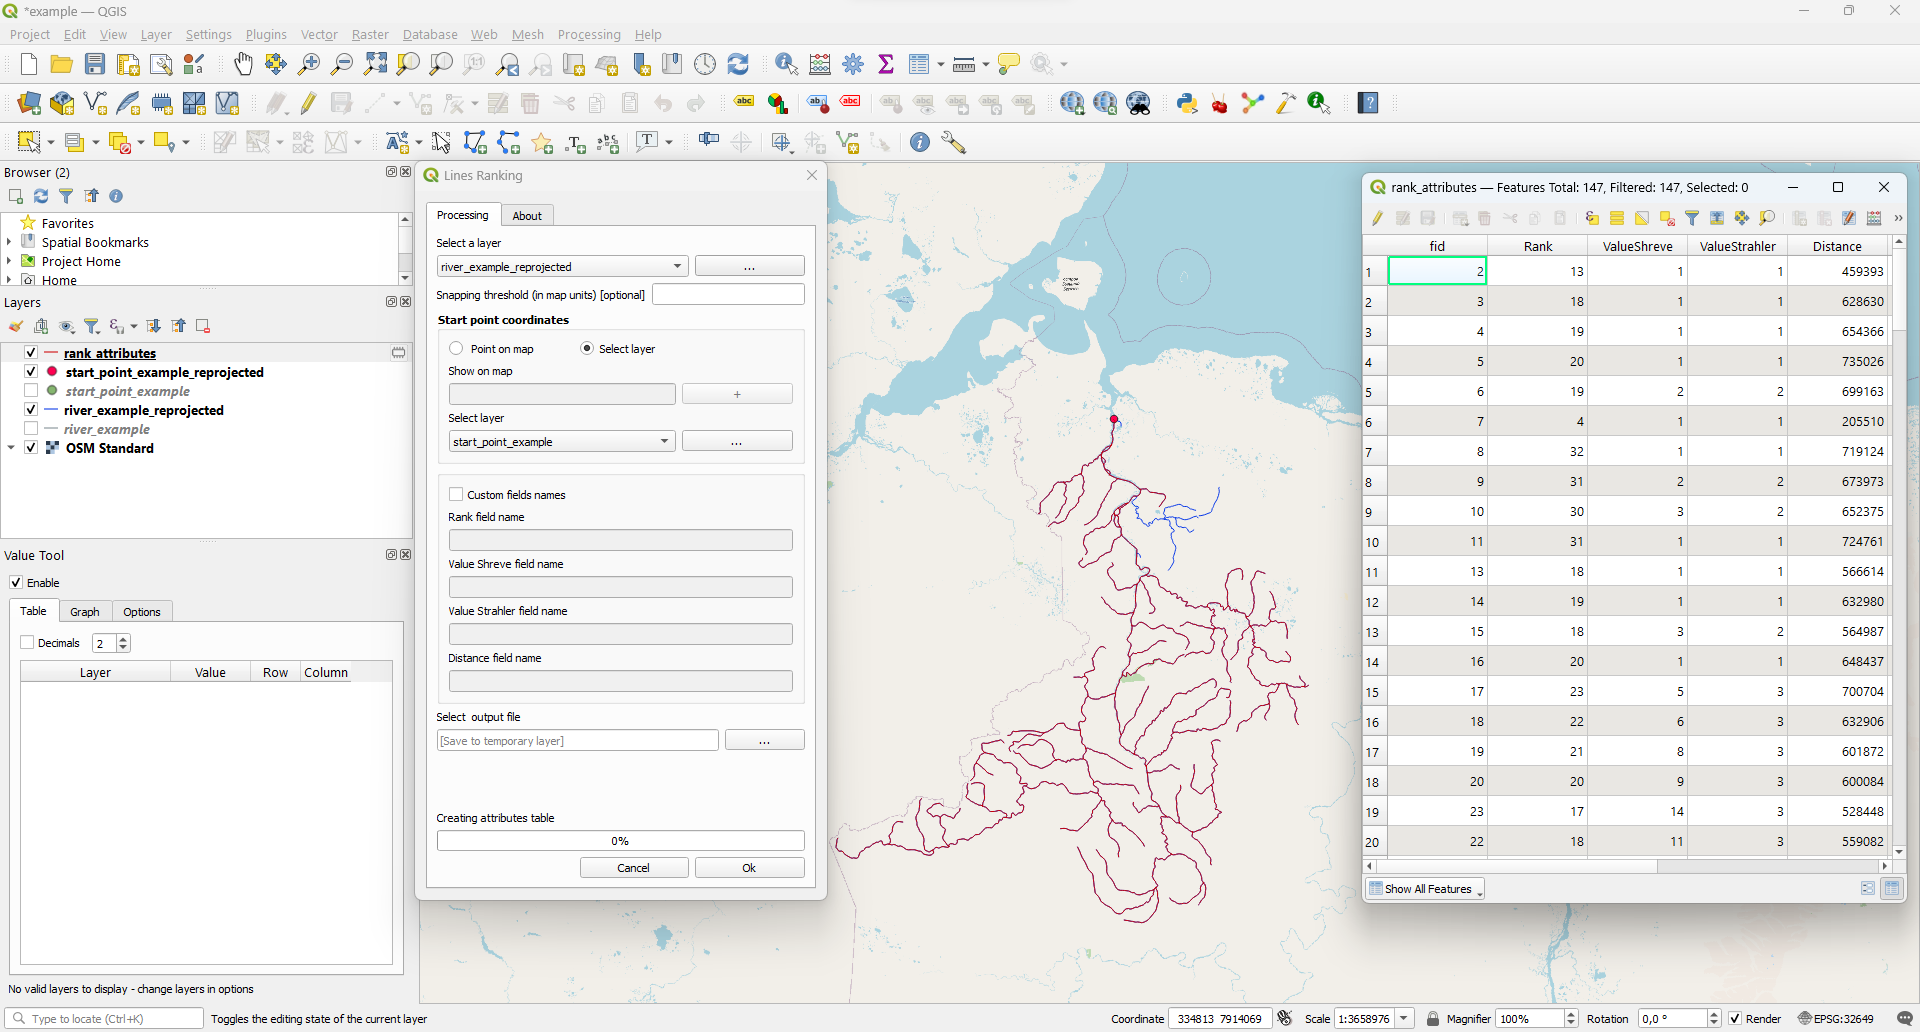
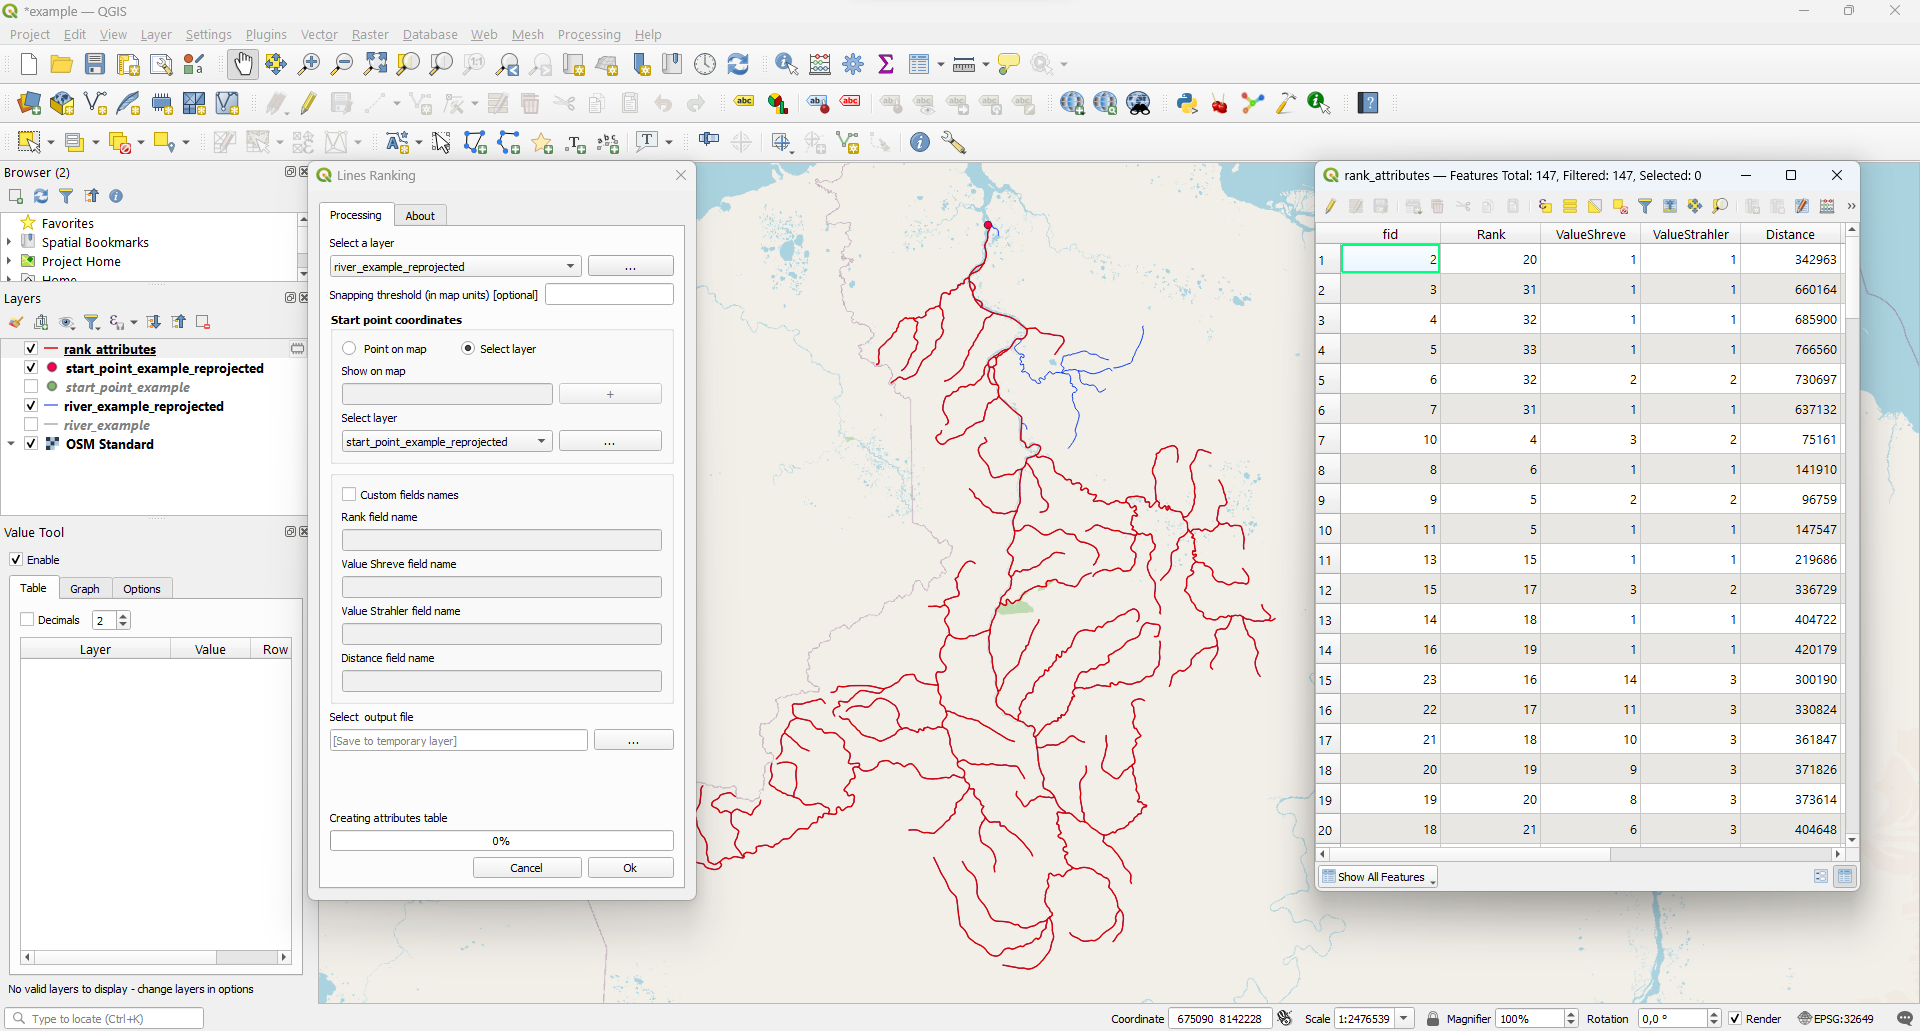
update documentation

Changed region(s): [[0.0, 0.1552, 1.0, 1.0], [0.3125, 0.9311, 0.3438, 0.9932], [0.5312, 0.9001, 0.5625, 0.9311]]

diff --git a/docs/usage/functionality_review.md b/docs/usage/functionality_review.md
@@ -4,6 +4,11 @@ So, we have already installed the plugin in QGIS.
 It's the time to look at its functionality. 
 In this document, we'll take a step-by-step look at how it can be used. 
 
+## Important tip!
+
+Before starting to use the algorithm, please make sure that the project uses metric projection. 
+Also the layers used in the calculation (both linear and point layers) should be converted to this projection.
+
 ## Data 
 
 In the [repository with source code](https://github.com/ChrisLisbon/QGIS_LinesRankingPlugin)
@@ -30,7 +35,8 @@ where the river flows into the ocean. Then the following results obtained:
 ## Usage example (Select layer) 
 
 You can also use a one-point vector layer to assign the starting point run the algorithm.
-We can use `start_point_example`. Re-project the layer: `Processing` - `Toolbox` - `Reproject layer` - assign "WGS 84 / UTM zone 49N".
+We can use `start_point_example`. Re-project this point layer: `Processing` - `Toolbox` - 
+`Reproject layer` - assign "WGS 84 / UTM zone 49N". Save result into file `start_point_example_reprojected`.
 
 <img src="https://raw.githubusercontent.com/ChrisLisbon/QGIS_LinesRankingPlugin/master/images/start_point_layer.png" width="750"/>
 
@@ -76,7 +82,7 @@ To better understand what values have been assigned to this layer, we suggest pr
 
 **Shreve order** 
 
-`rank_attributes_th_25` - `Properties` - `Symbology` - `Graduated`. Then choose `ValueShreve` field for Value
+`rank_attributes` - `Properties` - `Symbology` - `Graduated`. Then choose `ValueShreve` field for Value
 and 'Size' for Method and click Classify: 
 
 <img src="https://raw.githubusercontent.com/ChrisLisbon/QGIS_LinesRankingPlugin/master/images/result_shreve.png" width="750"/>
@@ -87,7 +93,7 @@ Thus, using the Value attribute you can show the total number of tributaries.
 
 **Strahler order** 
 
-`rank_attributes_th_25` - `Properties` - `Symbology` - `Graduated`. Then choose 'ValueStrahler' field for Value
+`rank_attributes` - `Properties` - `Symbology` - `Graduated`. Then choose 'ValueStrahler' field for Value
 and 'Color' for Method and click Classify: 
 
 <img src="https://raw.githubusercontent.com/ChrisLisbon/QGIS_LinesRankingPlugin/master/images/result_strahler.png" width="750"/>

diff --git a/docs/theoretical/algorithm.md b/docs/theoretical/algorithm.md
@@ -1,1 +1,28 @@
 # Algorithm
+
+The calculation algorithm in its first version (2020) is 
+described in detail in the article [The Algorithm for Ranking the Segments of the River Network for Geographic Information Analysis Based on Graphs](https://medium.com/swlh/the-algorithm-for-ranking-the-segments-of-the-river-network-for-geographic-information-analysis-b25cffb0d167?sk=f1475802bd96f8d14c994a6f87f7453d). 
+
+If you would like to see a more concise description - welcome to this page!
+
+The plugin is written in the Python programming language and uses other QGIS 
+tools in its calculations. Therefore, it is worth highlighting two large functional blocks: 
+
+- Pre-processing algorithms (external)
+- Core logic
+
+Pre-processing algorithms use QGIS tools to remove topological incorrectnesses 
+in the layer, calculate segment lengths, and partition the river network into 
+individual segments. Once the layer is preprocessed, it is transferred to the adjacency list (graph).
+
+<img src="https://raw.githubusercontent.com/ChrisLisbon/QGIS_LinesRankingPlugin/master/images/preprocessing_source_layer.png" width="750"/>
+
+## Core logic 
+
+The core logic is described in three steps:
+
+- The assignment of the attributes `Rank` and `offspring` (internal technical attribute) for each node (segment)
+- Detection of the "main river" - a sequence of nodes (segments) from the farthest river segment to the mouth of the river
+- Assigning the `ValueShreve`, `ValueStrahler` and `Distance attributes`
+
+After that, the graph nodes are again "transformed" into linear vector objects. The calculation is finished

diff --git a/README.md b/README.md
@@ -22,6 +22,10 @@ Usage examples and detailed description of the algorithm can be found in the doc
 
 The official plugin documentation can be reached via [link](https://linesranking.readthedocs.io/en/latest/)
 
+## Installation guide 
+
+Please follow the instructions from the [installation page](https://linesranking.readthedocs.io/en/latest/usage/install/). 
+
 ## Install from zip archive 
 
 QGIS has the ability to install plugins from zip archives. 

diff --git a/docs/usage/river_case.md b/docs/usage/river_case.md
@@ -3,6 +3,11 @@
 Welcome to the "River use case" page.
 Here is information on how you can use the plugin to analyze the river network and prepare visualizations.
 
+## Important tip!
+
+Before starting to use the algorithm, please make sure that the project uses metric projection. 
+Also the layers used in the calculation (both linear and point layers) should be converted to this projection.
+
 ## Experiment setup 
 
 - QGIS Desktop 3.34.3
